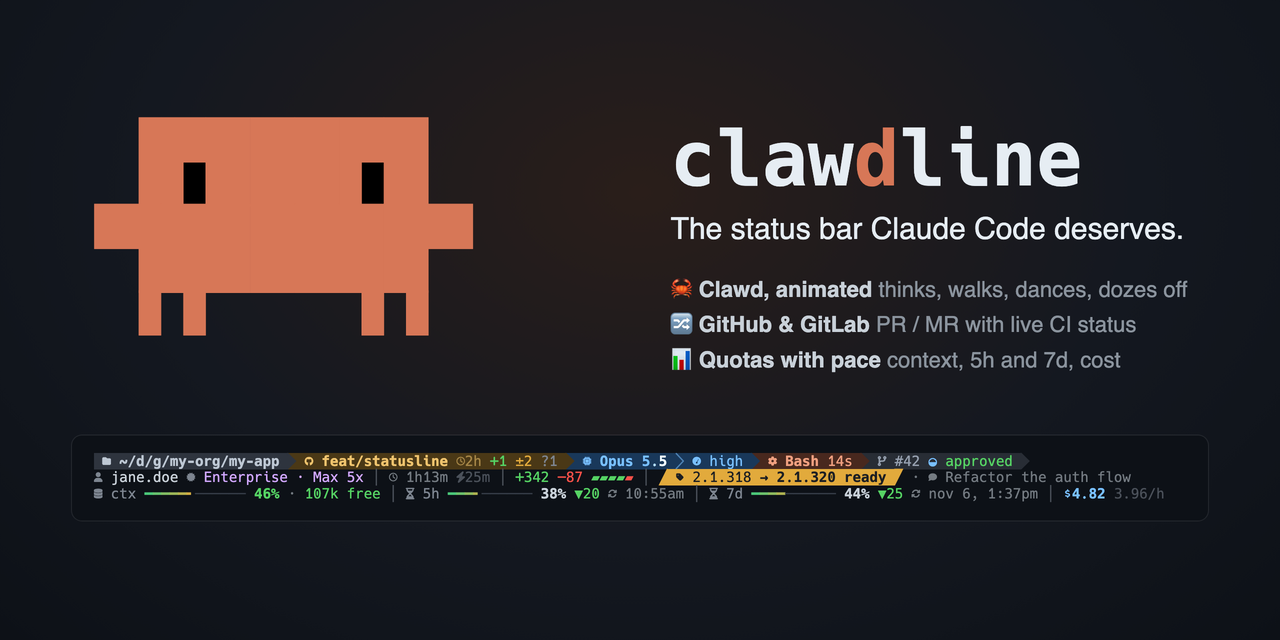
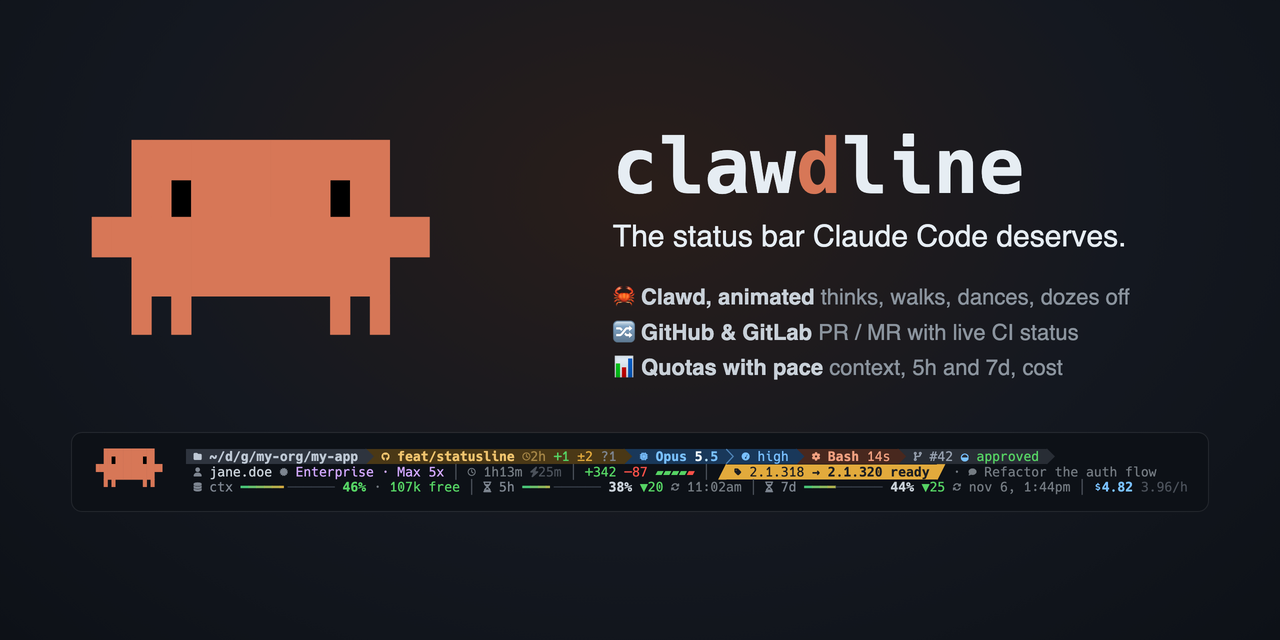
Showcase: show Clawd inside the real bar, not on his own
The square GIF now zooms in on the left end of the actual status bar, Clawd
included, then shows the rest of line 1 further along; the social preview's
bar includes him too. Out of the bar, he read as an illustration.

diff --git a/tools/showcase.py b/tools/showcase.py
@@ -3,9 +3,10 @@
 
     uv run tools/showcase.py
 
-docs/showcase.gif        1080x1080, for social posts read on a phone: Clawd big,
-                         his mood as a caption, and line 1 of the bar wrapped
-                         onto two rows so it stays legible.
+docs/showcase.gif        1080x1080, for social posts read on a phone: the real
+                         bar, Clawd in it, zoomed in on its left end so it
+                         stays legible, then the rest of line 1 (model, what
+                         Claude is doing, the PR and its CI) further along.
 docs/social-preview.png  1280x640, for GitHub (Settings > Social preview).
 
 Same requirements as tools/animate.py, whose capture it reuses.
@@ -19,7 +20,9 @@ from screenshot import CHROME, FONT, ROOT, cells, cells_to_html
 
 GIF = ROOT / "docs" / "showcase.gif"
 PNG = ROOT / "docs" / "social-preview.png"
-MODEL_BG = (25, 56, 90)    # the model segment: line 1 wraps just before it
+MODEL_BG = (25, 56, 90)    # the model segment: "further along" starts there
+ZOOM_COLS = 41             # columns of the real bar the square shows, Clawd included
+ADVANCE = 0.602            # Hack's advance width, in em
 
 CSS = """
   html, body {{ margin: 0; padding: 0; background: transparent; }}
@@ -34,23 +37,37 @@ CSS = """
   .brand i {{ color: #d77757; font-style: normal; }}
   .muted {{ color: #8b949e; }}
   b.t {{ color: #d77757; }}
+  .win {{ background: #0d1117; border-radius: 10px; overflow: hidden;
+          box-shadow: 0 0 0 1px rgba(255,255,255,.09), 0 14px 34px rgba(0,0,0,.45); }}
+  .bar {{ height: 24px; background: #1b2028; display: flex; align-items: center; gap: 6px;
+          padding: 0 11px; font-size: 11px; color: #8b949e; }}
+  .dot {{ width: 9px; height: 9px; border-radius: 50%; }}
+  .fade {{ -webkit-mask-image: linear-gradient(to right, #000 82%, transparent); }}
 """
 
-SQUARE = """<div class="bg" style="width:540px;height:540px;padding:26px 24px">
+DOTS = ('<span class="dot" style="background:#ff5f57"></span>'
+        '<span class="dot" style="background:#febc2e"></span>'
+        '<span class="dot" style="background:#28c840"></span>')
+
+# Rows are joined with no whitespace in between: .term is white-space: pre.
+SQUARE = """<div class="bg" style="width:540px;height:540px;padding:24px;display:flex;flex-direction:column">
   <div class="brand" style="font-size:19px">claw<i>d</i>line</div>
-  <div style="display:flex;justify-content:center;margin-top:46px">
-    <pre class="clawd" style="font-size:64px">{clawd}</pre>
+  <div style="flex:1;display:flex;flex-direction:column;justify-content:center">
+    <div style="text-align:center;font-size:26px">Clawd is <b class="t">{caption}</b></div>
+    <div class="muted" style="text-align:center;font-size:14px;margin-top:6px">right in your Claude Code status bar</div>
+    <div class="win" style="margin-top:28px">
+      <div class="bar">{dots}<span style="flex:1;text-align:center;margin-right:40px">claude</span></div>
+      <div class="term fade" style="font-size:18.5px;padding:18px 16px 20px">{zoom}</div>
+    </div>
+    <div class="muted" style="text-align:center;font-size:13.5px;margin-top:28px">… and further along the same bar</div>
+    <div class="term" style="font-size:16px;margin-top:10px;text-align:center">{rest}</div>
   </div>
-  <div style="text-align:center;font-size:21px;margin-top:22px">Clawd is <b class="t">{caption}</b></div>
-  <div class="term" style="font-size:15.5px;margin-top:40px;display:flex;flex-direction:column;align-items:center;gap:8px"><div>{row_a}</div><div>{row_b}</div></div>
-  <div class="muted" style="position:absolute;bottom:20px;left:0;right:0;text-align:center;font-size:13px">
-    github.com/mmurdockk/clawdline · Claude Code plugin · GitHub &amp; GitLab
-  </div>
+  <div class="muted" style="text-align:center;font-size:13px">github.com/mmurdockk/clawdline · Claude Code plugin · GitHub &amp; GitLab</div>
 </div>"""
 
 PREVIEW = """<div class="bg" style="width:1280px;height:640px;padding:0 72px;display:flex;flex-direction:column;justify-content:center">
   <div style="display:flex;align-items:center;gap:64px">
-    <pre class="clawd" style="font-size:74px">{clawd}</pre>
+    <pre class="clawd" style="font-size:66px">{clawd}</pre>
     <div>
       <div class="brand" style="font-size:76px;line-height:1">claw<i>d</i>line</div>
       <div style="font-size:30px;margin-top:14px;color:#e6edf3">The status bar Claude Code deserves.</div>
@@ -61,29 +78,29 @@ PREVIEW = """<div class="bg" style="width:1280px;height:640px;padding:0 72px;dis
       </div>
     </div>
   </div>
-  <!-- no whitespace between the rows: .term is white-space: pre -->
-  <div class="term" style="font-size:14px;margin-top:56px;padding:18px 22px;background:#0d1117;
-       border-radius:10px;box-shadow:0 0 0 1px rgba(255,255,255,.08)"><div>{l1}</div><div>{l2}</div><div>{l3}</div></div>
+  <div class="term" style="font-size:{size}px;margin-top:48px;padding:16px 20px;background:#0d1117;
+       border-radius:10px;box-shadow:0 0 0 1px rgba(255,255,255,.08)">{rows}</div>
 </div>"""
 
 
-def split(ansi):
-    """Demo output -> (Clawd's 3 rows incl. the z / sparkles gap, line 1, 2, 3)."""
-    rows = [cells(l) for l in ansi.split("\n") if l]
-    clawd = [r[1:13] for r in rows]           # column 0 is the anchor glyph
-    return clawd, rows[0][13:], rows[1][14:], rows[2][14:]
+def rows_of(ansi):
+    """Demo output -> its 3 rows as cells, minus the invisible anchor in column 0."""
+    return [cells(l)[1:] for l in ansi.split("\n") if l]
 
 
-def wrap(line1):
-    """Line 1 as two rows: directory and branch, then model onwards. The arrow
-    joining them closes row A instead, and row B starts on its own padding."""
+def clawd_of(rows):
+    return [r[:12] for r in rows]             # the sprite and its z / sparkles gap
+
+
+def rest_of_line1(rows):
+    """Line 1 from the model segment on, its joining arrow dropped."""
+    line1 = rows[0]
     i = next(k for k, c in enumerate(line1) if c[2] == MODEL_BG)
-    close = [("", line1[i][1], None, False, False)]
-    return line1[:i] + close, line1[i + 1:]
+    return line1[i + 1:]
 
 
-def clawd_html(rows):
-    return "\n".join(cells_to_html(r) for r in rows)
+def html_rows(rows):
+    return "".join("<div>%s</div>" % cells_to_html(r) for r in rows)
 
 
 def shoot(html, width, height, out):
@@ -101,11 +118,13 @@ def main():
     with tempfile.TemporaryDirectory() as tmp:
         tmp = Path(tmp)
 
-        # Social preview: Clawd standing, the bar mid-tool with a PR and CI.
-        clawd = split(shots["idle"][0][1])[0]
-        _, l1, l2, l3 = split(shots["tool"][0][1])
-        shoot(PREVIEW.format(clawd=clawd_html(clawd), l1=cells_to_html(l1),
-                             l2=cells_to_html(l2), l3=cells_to_html(l3)),
+        # Social preview: Clawd standing, big, and in the bar it lives in.
+        idle = rows_of(shots["idle"][0][1])
+        bar = rows_of(shots["tool"][0][1])
+        bar = [c[:12] + r[12:] for c, r in zip(clawd_of(idle), bar)]
+        size = min(14, round(1092 / (max(len(r) for r in bar) * ADVANCE), 1))
+        shoot(PREVIEW.format(clawd="\n".join(cells_to_html(r) for r in clawd_of(idle)),
+                             size=size, rows=html_rows(bar)),
               1280, 640, tmp / "preview.png")
         subprocess.run(["magick", str(tmp / "preview.png"), "-resize", "1280x640!", str(PNG)], check=True)
 
@@ -115,10 +134,10 @@ def main():
             seq += [(caption, a) for a in pick(shots[state], n, centre)]
         pages = []
         for caption, ansi in seq:
-            clawd, l1, _, _ = split(ansi)
-            a, b = wrap(l1)
-            pages.append(SQUARE.format(clawd=clawd_html(clawd), caption=caption,
-                                       row_a=cells_to_html(a), row_b=cells_to_html(b)))
+            rows = rows_of(ansi)
+            pages.append(SQUARE.format(caption=caption, dots=DOTS,
+                                       zoom=html_rows([r[:ZOOM_COLS] for r in rows]),
+                                       rest=cells_to_html(rest_of_line1(rows))))
         shoot("".join(pages), 540, 540 * len(seq), tmp / "strip.png")
         subprocess.run(["magick", str(tmp / "strip.png"), "-crop", "1080x1080", "+repage",
                         str(tmp / "f-%03d.png")], check=True)
